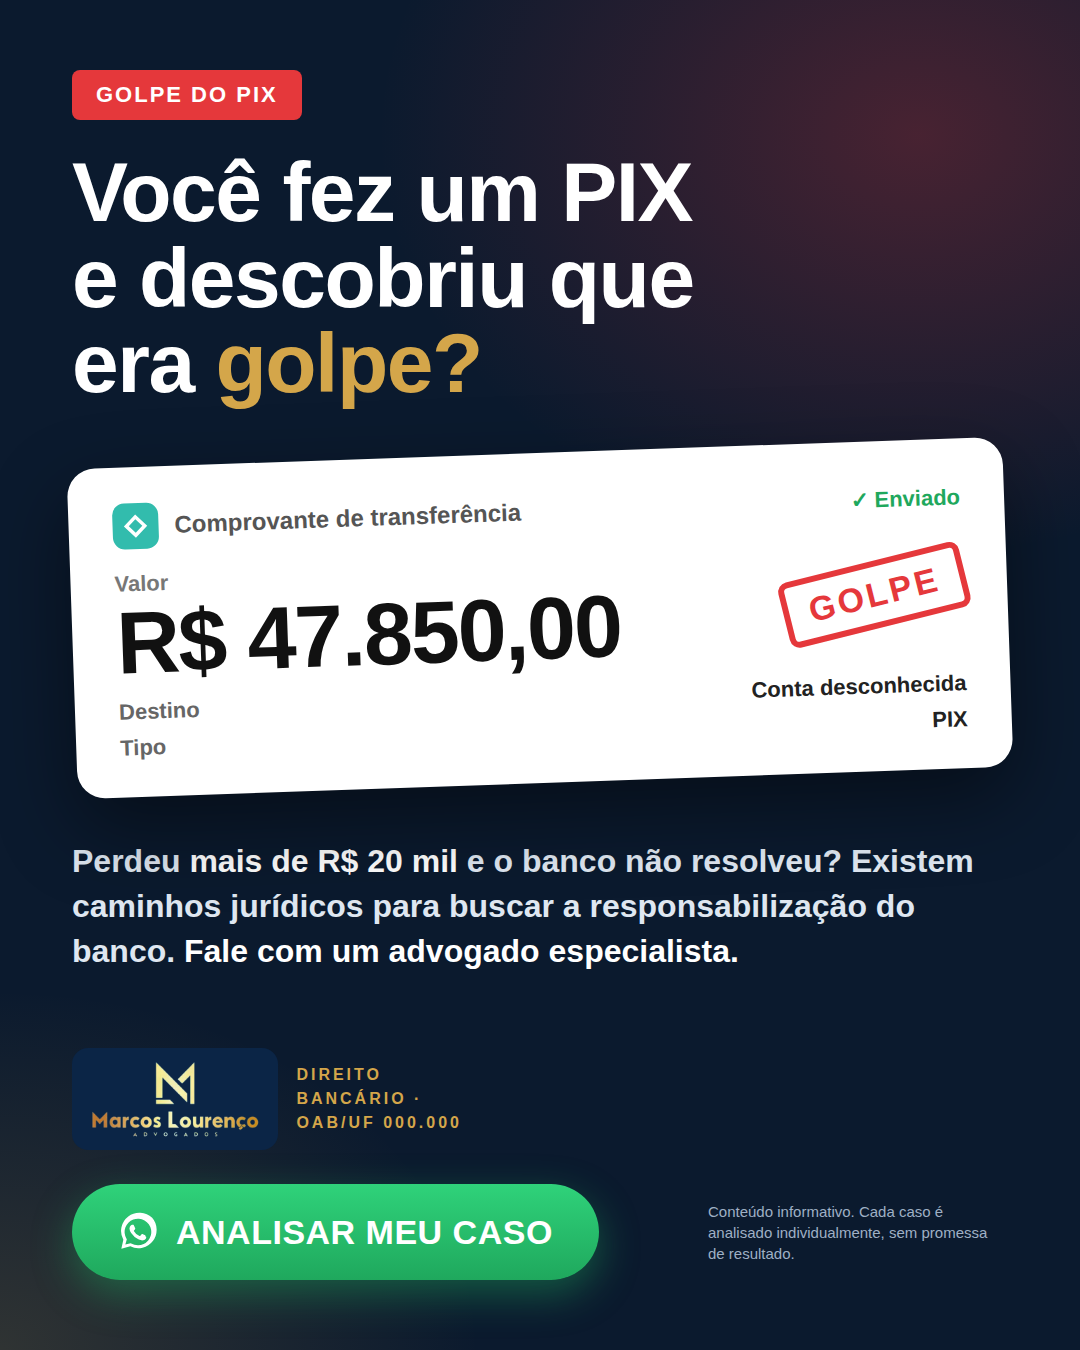
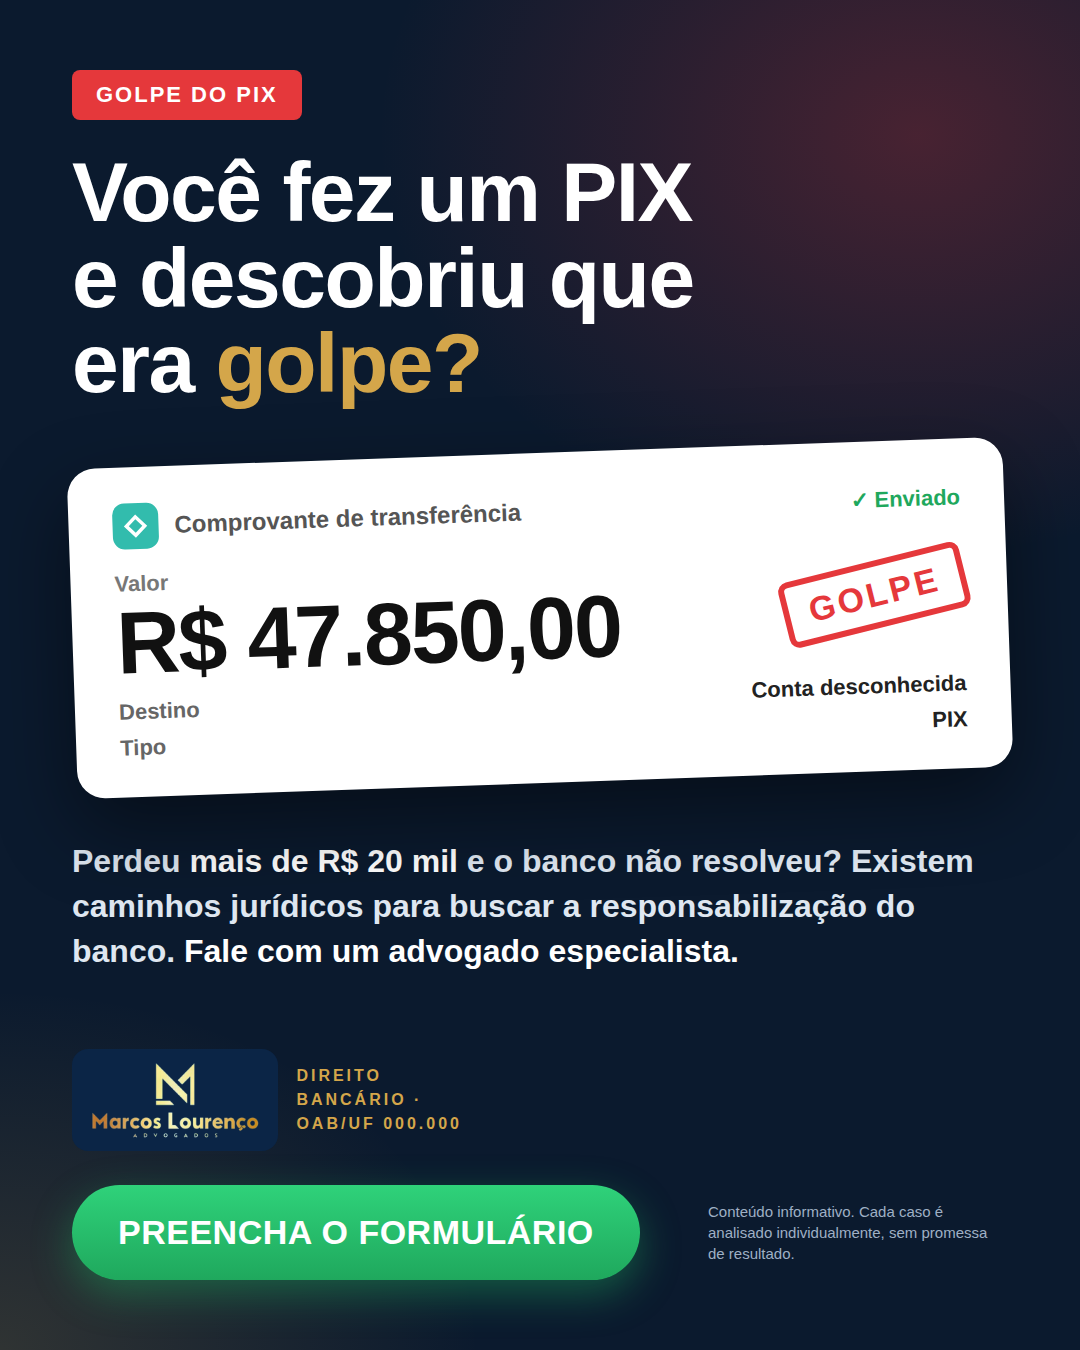
Troca CTA dos estáticos para "Preencha o formulário"
Claude-Session: https://claude.ai/code/session_01NfMwGfmLjvRTbYLtBF4vhA

Changed region(s): [[0.0917, 0.8711, 0.6111, 0.9644], [0.0917, 0.7778, 0.2444, 0.84], [0.275, 0.8089, 0.4278, 0.84]]

diff --git a/estaticos/marcos-lourenco-golpe-pix/src/estatico-03.html b/estaticos/marcos-lourenco-golpe-pix/src/estatico-03.html
@@ -75,8 +75,7 @@
         <div class="sub">Direito Bancário · OAB/UF 000.000</div>
       </div>
       <div class="cta" style="font-size:28px;padding:24px 34px">
-        <svg viewBox="0 0 24 24" fill="#fff"><path d="M20.5 3.5A11 11 0 0 0 3.2 16.7L2 22l5.4-1.4A11 11 0 0 0 20.5 3.5zM12 20a8 8 0 0 1-4.1-1.1l-.3-.2-3.2.8.9-3.1-.2-.3A8 8 0 1 1 12 20zm4.4-6c-.2-.1-1.4-.7-1.7-.8-.2-.1-.4-.1-.5.1l-.8 1c-.1.2-.3.2-.5.1a6.6 6.6 0 0 1-3.3-2.9c-.2-.4.2-.4.7-1.3.1-.2 0-.3 0-.4l-.8-1.8c-.2-.5-.4-.4-.5-.4h-.5a.9.9 0 0 0-.7.3 2.8 2.8 0 0 0-.9 2.1 4.9 4.9 0 0 0 1 2.6 11.2 11.2 0 0 0 4.3 3.8c1.6.7 2.2.7 3 .6.5-.1 1.4-.6 1.6-1.1.2-.6.2-1 .1-1.1l-.5-.3z"/></svg>
-        Quero ajuda agora
+        Preencha o formulário
       </div>
     </div>
     <div class="disclaimer" style="margin-top:22px">Conteúdo informativo. Cada caso é analisado individualmente, sem promessa de resultado.</div>

diff --git a/estaticos/marcos-lourenco-golpe-pix/src/estatico-01.html b/estaticos/marcos-lourenco-golpe-pix/src/estatico-01.html
@@ -86,8 +86,7 @@
     </div>
     <div style="margin-top:34px;display:flex;justify-content:space-between;align-items:center;gap:30px">
       <div class="cta">
-        <svg viewBox="0 0 24 24" fill="#fff"><path d="M20.5 3.5A11 11 0 0 0 3.2 16.7L2 22l5.4-1.4A11 11 0 0 0 20.5 3.5zM12 20a8 8 0 0 1-4.1-1.1l-.3-.2-3.2.8.9-3.1-.2-.3A8 8 0 1 1 12 20zm4.4-6c-.2-.1-1.4-.7-1.7-.8-.2-.1-.4-.1-.5.1l-.8 1c-.1.2-.3.2-.5.1a6.6 6.6 0 0 1-3.3-2.9c-.2-.4.2-.4.7-1.3.1-.2 0-.3 0-.4l-.8-1.8c-.2-.5-.4-.4-.5-.4h-.5a.9.9 0 0 0-.7.3 2.8 2.8 0 0 0-.9 2.1 4.9 4.9 0 0 0 1 2.6 11.2 11.2 0 0 0 4.3 3.8c1.6.7 2.2.7 3 .6.5-.1 1.4-.6 1.6-1.1.2-.6.2-1 .1-1.1l-.5-.3z"/></svg>
-        Analisar meu caso
+        Preencha o formulário
       </div>
       <div class="disclaimer" style="max-width:300px">Conteúdo informativo. Cada caso é analisado individualmente, sem promessa de resultado.</div>
     </div>

diff --git a/estaticos/marcos-lourenco-golpe-pix/src/estatico-02.html b/estaticos/marcos-lourenco-golpe-pix/src/estatico-02.html
@@ -72,8 +72,7 @@
         <div class="sub">Direito Bancário · OAB/UF 000.000</div>
       </div>
       <div class="cta" style="font-size:28px;padding:24px 34px">
-        <svg viewBox="0 0 24 24" fill="#fff"><path d="M20.5 3.5A11 11 0 0 0 3.2 16.7L2 22l5.4-1.4A11 11 0 0 0 20.5 3.5zM12 20a8 8 0 0 1-4.1-1.1l-.3-.2-3.2.8.9-3.1-.2-.3A8 8 0 1 1 12 20zm4.4-6c-.2-.1-1.4-.7-1.7-.8-.2-.1-.4-.1-.5.1l-.8 1c-.1.2-.3.2-.5.1a6.6 6.6 0 0 1-3.3-2.9c-.2-.4.2-.4.7-1.3.1-.2 0-.3 0-.4l-.8-1.8c-.2-.5-.4-.4-.5-.4h-.5a.9.9 0 0 0-.7.3 2.8 2.8 0 0 0-.9 2.1 4.9 4.9 0 0 0 1 2.6 11.2 11.2 0 0 0 4.3 3.8c1.6.7 2.2.7 3 .6.5-.1 1.4-.6 1.6-1.1.2-.6.2-1 .1-1.1l-.5-.3z"/></svg>
-        Falar com advogado
+        Preencha o formulário
       </div>
     </div>
     <div class="disclaimer">Conteúdo informativo. Cada caso é analisado individualmente, sem promessa de resultado.</div>
